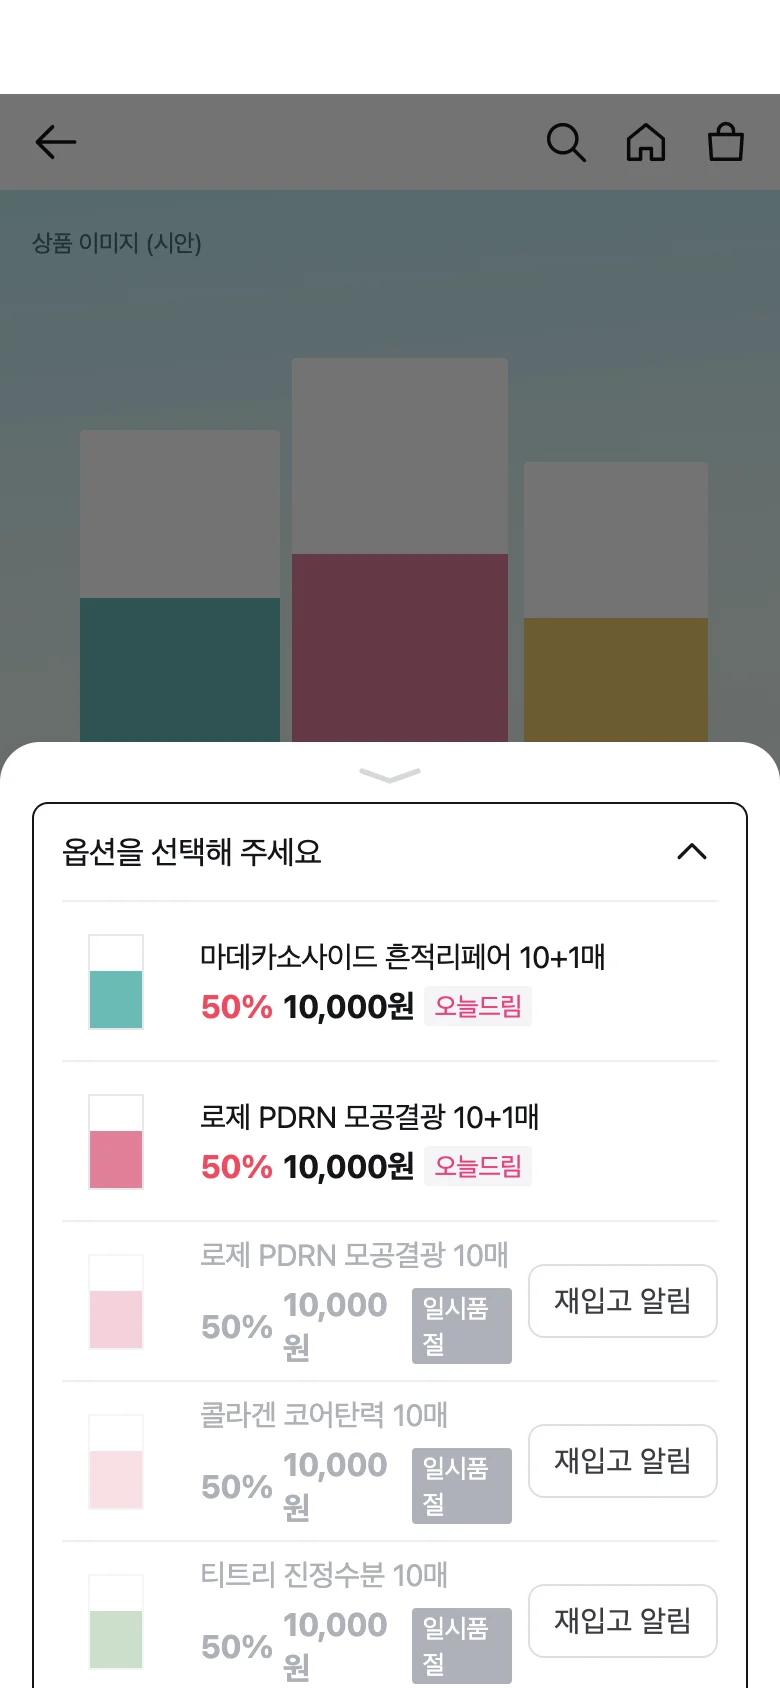
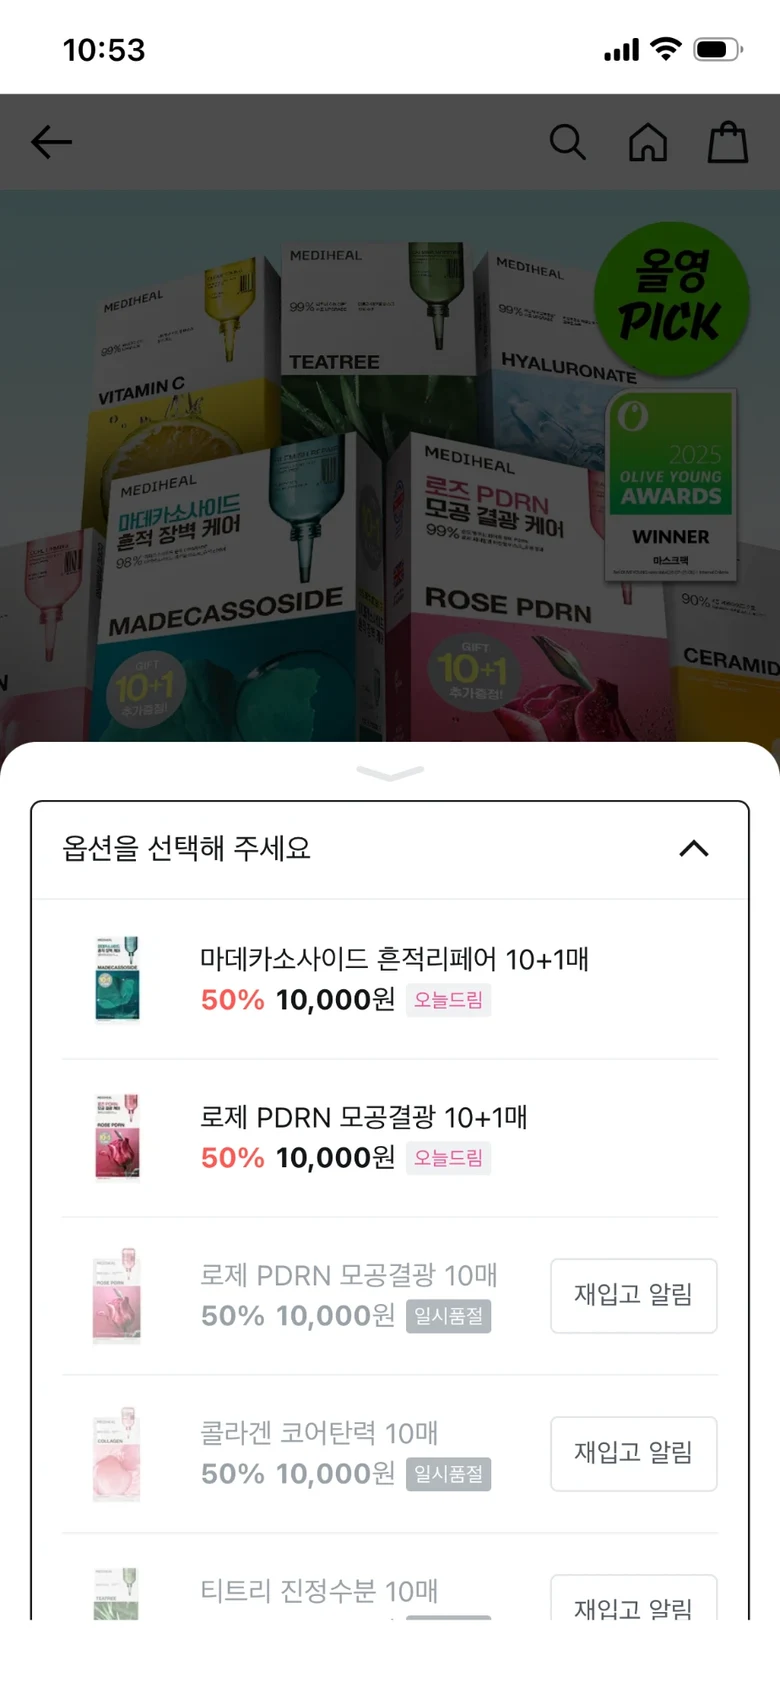
feat: 올리브영 기존 옵션 품절 화면을 실제 앱 캡처로 교체하고 재현 화면이라는 안내 문구 수정

diff --git a/src/pages/CaseGeneric.tsx b/src/pages/CaseGeneric.tsx
@@ -156,7 +156,7 @@ function Olive({ c }: { c: Ctx }) {
         <div className="mt-8 rounded-[20px] p-6 md:p-8" style={{ background: T(14) }}>
           <p className="eyebrow text-sub">실제 화면에서 확인한 사실</p>
           <ul className="mt-3 text-[16px] leading-[1.8] list-disc pl-5"><li>상품 상세에 오늘드림 또는 픽업 이용 영역이 있다</li><li>주문/결제에서 배송 시간대에 따라 배송비가 다르다: 12:45~13:45 5,000원 · 15:00~16:00 2,500원 · 22:00~24:00 2,500원</li><li>최종 결제금액 12,500원 화면이 확인된다</li></ul>
-          <p className="mt-3 text-[13px] text-sub">품절 옵션 선택 화면은 실제 캡처가 아니라, 관찰한 구조(옵션 바텀시트, 일시품절 표시, 재입고 알림)를 재현한 거예요. 그 이후의 기존 동작은 단정하지 않고 검증할 가설로 뒀어요.</p>
+          <p className="mt-3 text-[13px] text-sub">품절 옵션 선택 화면도 실제 앱 캡처예요. 그 이후의 기존 동작은 단정하지 않고 검증할 가설로 뒀어요.</p>
         </div>
 
         <div className="mt-20 md:grid md:grid-cols-12 gap-10">
@@ -182,7 +182,7 @@ function Olive({ c }: { c: Ctx }) {
               <table className="mt-6 w-full text-[15px] bg-white rounded-[20px] overflow-hidden"><caption className="sr-only">옵션 상태별 하단 CTA</caption><thead><tr className="text-left text-[13px] text-sub"><th scope="col" className="py-3 pl-5">옵션 상태</th><th scope="col" className="py-3 pr-5">하단 CTA</th></tr></thead><tbody>{ctas.map(([a, b]) => <tr key={a} className="border-t border-grid"><th scope="row" className="py-3 pl-5 pr-3 text-left font-semibold">{a}</th><td className="py-3 pr-5" style={{ color: S }}>{b}</td></tr>)}</tbody></table></div>
             <div className="mt-10 md:mt-0 md:col-span-7 grid grid-cols-3 gap-4 md:gap-6"><Fig src={I('n-optA')} alt="옵션 미선택 상태" cap="옵션 미선택" /><Fig src={I('n-optC')} alt="오늘드림 품절 옵션 선택" cap="오늘드림 품절" className="md:mt-10" /><Fig src={I('n-optFail')} alt="재고 확인 실패 상태" cap="재고 확인 실패" /></div>
           </div>
-          {p.beforeAfter?.[0] && <div className="mt-14"><div className="max-w-[62ch]"><p className="eyebrow rule pt-4 text-sub">Before / After · 품절 옵션 선택</p><h3 className="mt-4 text-[28px] md:text-[32px] font-bold tracking-tight leading-tight">옵션별 행동을 찾는 방식에서, 선택한 옵션의 다음 행동을 확인하는 방식으로</h3><p className="mt-4 text-[15px] text-sub">Before는 실제 앱의 옵션 시트를 관찰해 <b>재현한 화면</b>이에요(실제 캡처 아님).</p></div><div className="mt-8"><BeforeAfter data={p.beforeAfter[0]} color={A} /></div></div>}
+          {p.beforeAfter?.[0] && <div className="mt-14"><div className="max-w-[62ch]"><p className="eyebrow rule pt-4 text-sub">Before / After · 품절 옵션 선택</p><h3 className="mt-4 text-[28px] md:text-[32px] font-bold tracking-tight leading-tight">옵션별 행동을 찾는 방식에서, 선택한 옵션의 다음 행동을 확인하는 방식으로</h3><p className="mt-4 text-[15px] text-sub">Before는 실제 올리브영 앱의 옵션 시트 캡처예요.</p></div><div className="mt-8"><BeforeAfter data={p.beforeAfter[0]} color={A} /></div></div>}
 
           <Reveal className="mt-20 md:mt-24">
             <Num n="02" t="수령 방법별로 재고와 주문 가능 상태를 구분" />

diff --git a/src/data/projects.ts b/src/data/projects.ts
@@ -70,8 +70,8 @@ export const projects: Project[] = [
     beforeAfter: [
       {
         before: '/images/oliveyoung-todaydream/n-optMain.webp', after: '/images/oliveyoung-todaydream/n-optC.webp',
-        beforeAlt: '기존 옵션 선택 바텀시트 재현: 품절 옵션마다 일시품절 표시와 재입고 알림 버튼이 있다', afterAlt: '개선 옵션 선택 화면: 오늘드림 품절 옵션을 고르면 하단에서 다른 구매 방법 확인이 주요 행동으로 나온다',
-        points: ['Before: 품절 옵션마다 "일시품절" 표시와 "재입고 알림" 버튼이 줄마다 있고, 다른 구매 방법을 확인하는 행동은 보이지 않는다', 'After: 옵션 목록은 비교하는 영역으로 두고, 선택한 옵션에 맞는 주요 CTA("다른 구매 방법 확인")를 하단에 고정한다', '※ Before는 실제 앱의 옵션 바텀시트 구조(일시품절 표시, 재입고 알림)를 관찰해 재현한 화면이며 실제 앱 캡처가 아닙니다. 상품 이미지는 시안으로 대체했습니다'],
+        beforeAlt: '기존 옵션 선택 바텀시트(실제 앱 캡처): 품절 옵션마다 일시품절 표시와 재입고 알림 버튼이 있다', afterAlt: '개선 옵션 선택 화면: 오늘드림 품절 옵션을 고르면 하단에서 다른 구매 방법 확인이 주요 행동으로 나온다',
+        points: ['Before: 품절 옵션마다 "일시품절" 표시와 "재입고 알림" 버튼이 줄마다 있고, 다른 구매 방법을 확인하는 행동은 보이지 않는다', 'After: 옵션 목록은 비교하는 영역으로 두고, 선택한 옵션에 맞는 주요 CTA("다른 구매 방법 확인")를 하단에 고정한다', '※ Before는 실제 올리브영 앱 화면 캡처입니다'],
       },
       {
         before: '/images/oliveyoung-todaydream/n-detailAsis.webp', after: '/images/oliveyoung-todaydream/n-detailExpanded.webp',
